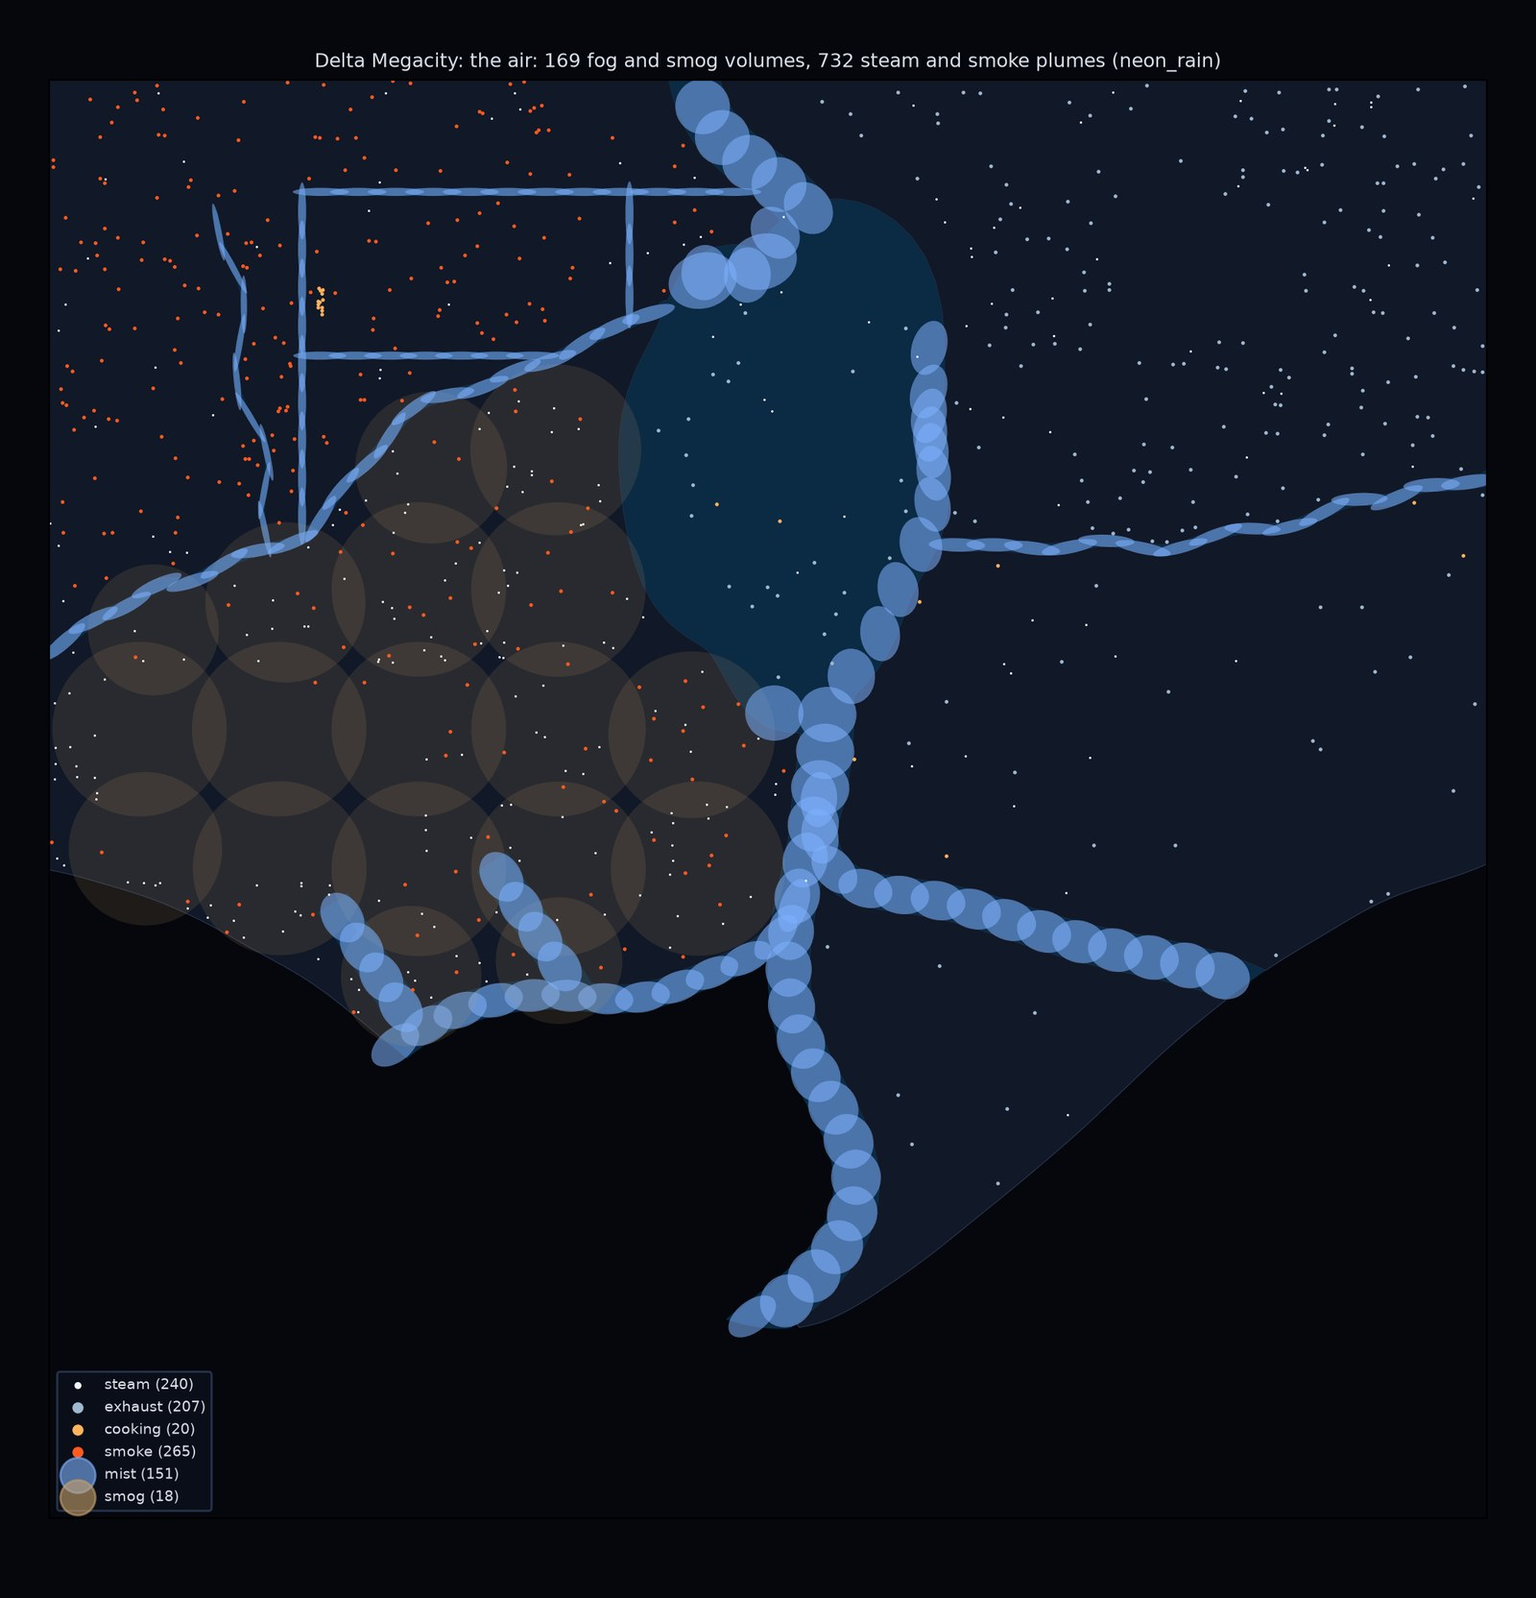
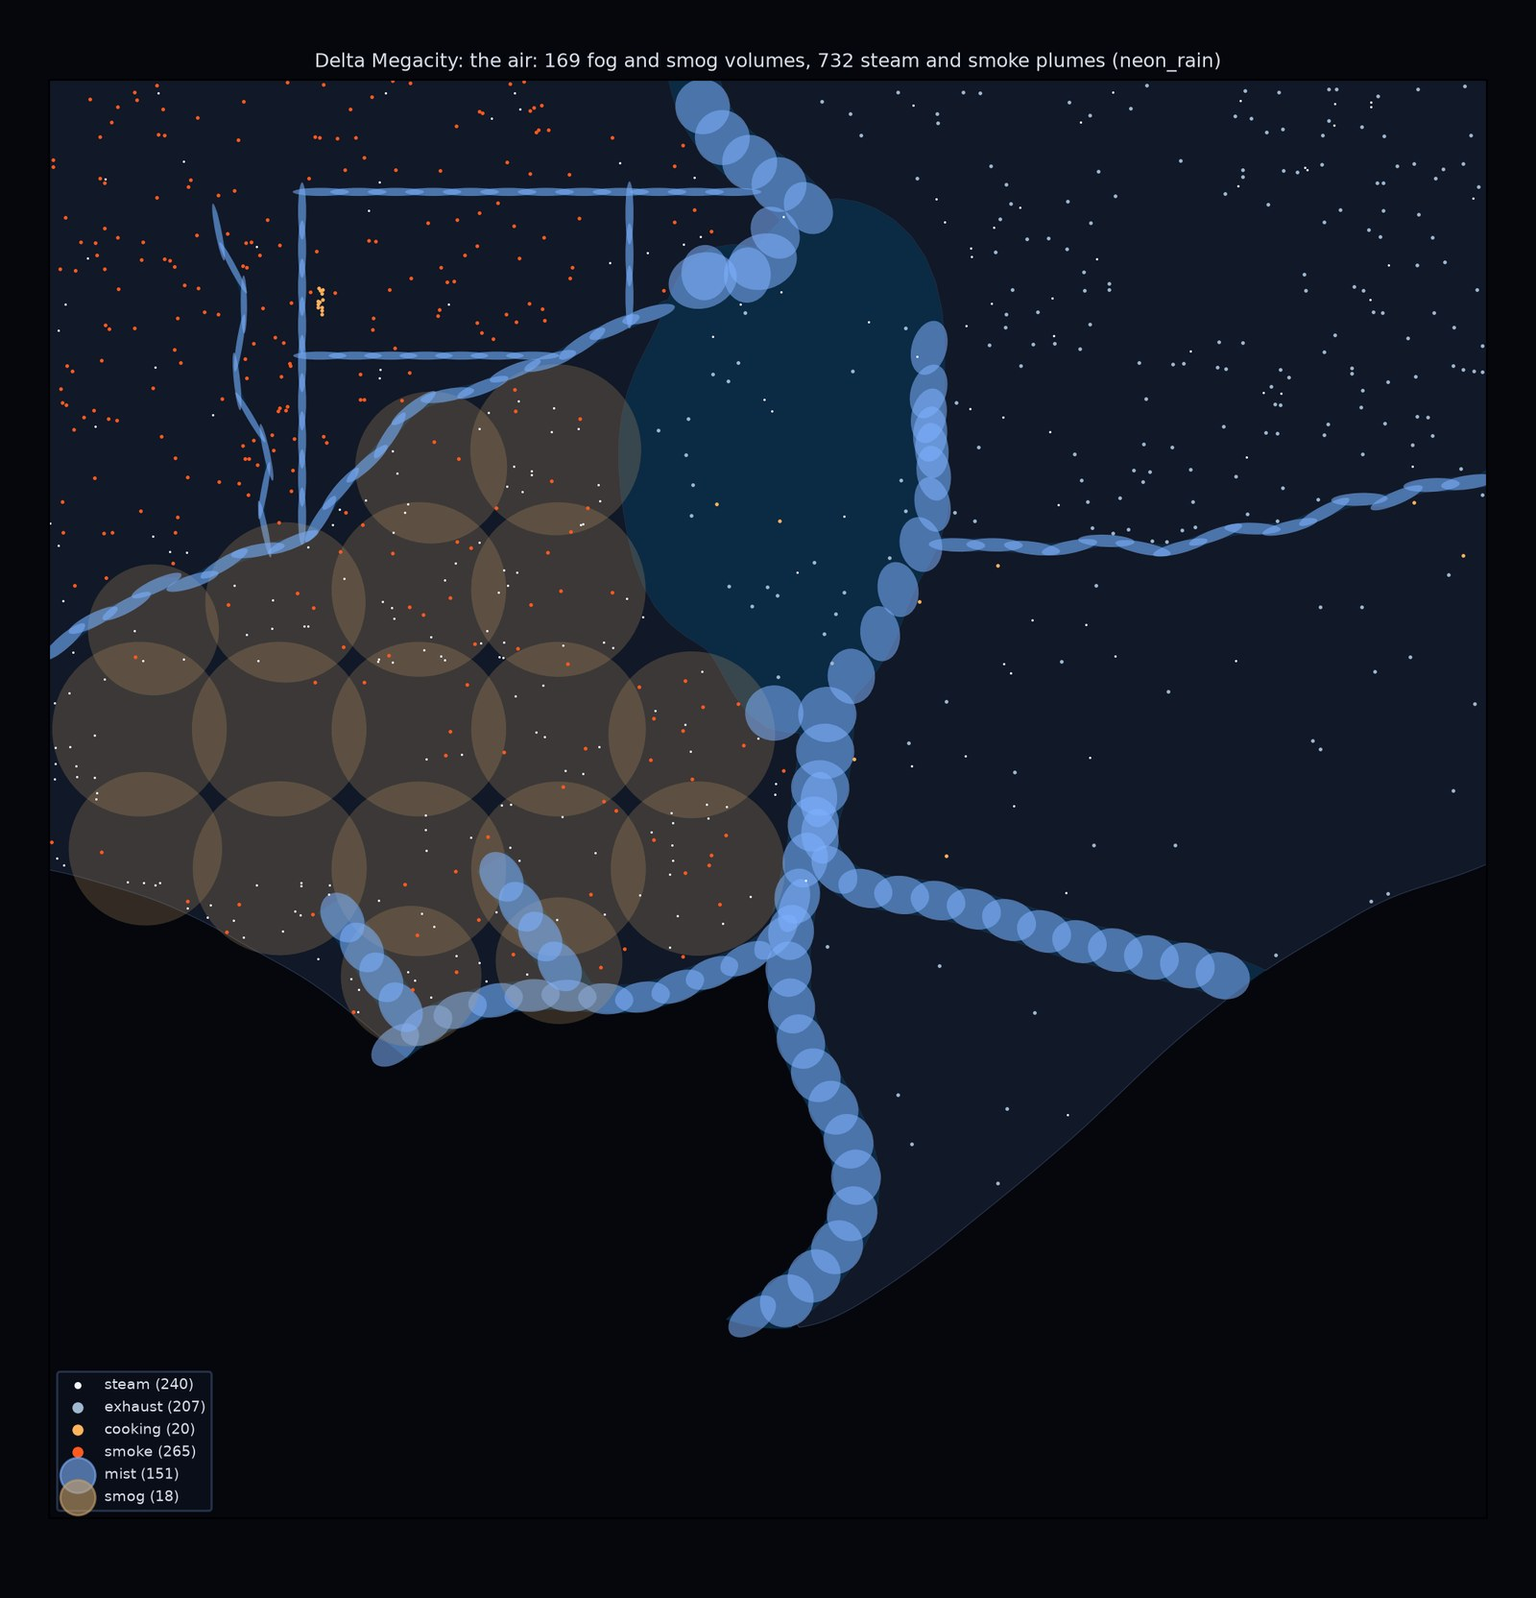
AT4: the deck's haze (Vesper Bay Decks), the report, the milestone log, README, the cars' cost

Changed region(s): [[0.0625, 0.25, 0.5, 0.625]]

diff --git a/docs/progress/AT4/README.md b/docs/progress/AT4/README.md
@@ -1,10 +1,158 @@
 # AT4: air (atmosgen)
 
 Stage 3's fifth milestone (`docs/atmosgen_scope.md` sections 6.3 and 13): height and
-volumetric fog per look, light shafts from strong lights through the haze, fog and smog volumes
-(mist over the canals and rivers at night, smog over industry and the port, haze under the decks
-and in tunnels, all thicker where danger is) and steam and smoke plumes (manholes and drains,
-roof exhausts, food stalls, tunnel vents, chimneys). Built on the Windows PC (RTX 4070 Ti,
-32 GB), 2026-11-12, on main after AT3 (#207) and the parked cars (#209).
+volumetric fog per look, light shafts from the strong lights through the haze, fog and smog
+volumes (mist over the canals and rivers at night, smog over industry and the port, haze under
+the decks and in tunnels, all thicker where danger is) and steam and smoke plumes (manholes and
+drains, roof exhausts, food stalls, tunnel vents, chimneys). Built on the Windows PC (RTX 4070
+Ti, 32 GB), 2026-11-12, on main after AT3 (#207) and the parked cars (#209).
 
-(in progress)
+## What AT4 built
+
+| Part | Where | What |
+|---|---|---|
+| The fog of the look | `presets.AIR_LOOK`, the plan's `air` | the weather's height fog times the look's `density` (neon rain 4.4) and `falloff` (0.4: the haze keeps to the street canyons, the city reads from the air), its volumetric extinction times `extinction` (3), phase g 0.72 (halos round the lamps and signs, shafts along the beams), the volumetric fog to 160 m; by the hour from the sky's Night (`fog_hours`: 1.25 by night, 0.8 by day) |
+| Light shafts | `presets.SCATTER`, the controller's `KindScatter` | each light kind's volumetric scattering: street lights, signals, corner and road poles 1, high masts 2, crown floods 1.5, lit faces 0.35; none from the neon spill, shop signs and shopfronts (AT0: most of the live set); none from searchlights |
+| Searchlights in fog | `presets.BEAM_FOG_GAIN`, `UpdateBeamGlow` | **decision:** AT2's beam meshes stay (a beam reaches 400 m into the sky, the volumetric fog 160 m, where a froxel is metres wide and a 2 degree cone a flicker of blocks); the spot lights scatter none, so there is one beam, brighter by 1 + 0.6 times the fog's share |
+| Fog and smog volumes | `air.Air.mist`, `smog`, `haze`, `tunnel_haze`; `planmodel.FogVolume` | ellipsoids: mist along M16's canals, basins, rivers and channels (pieces 90 m along the water's line, as wide as it there, 7 m over its surface, after dusk: schedule `mist`); smog over the industrial and spaceport districts and their megasites (a 340 m grid, 80 m deep, by day and night: `smog`); haze under M14's decks (a 120 m grid from the ground to the soffit) and in road tunnels and underpasses (pieces along the covered stretch); each times its district's mood haze and 0.7 + 0.6 times its danger (decision 12.5); a `glow` of the city's light by night |
+| Steam and smoke | `air.Air.street`, `vents`, `roofs`, `stalls`, `chimneys`; `planmodel.Emitter` | steam from AG7's manholes and drains, read from the street packs (`air.street_details`: the `manhole` and `grate` decals of the road pieces; a sidewalk piece's grates are tree pits), M9's ventilation buildings; exhaust from M3's roof mechanical units; cooking from M6's food stalls and kiosks; smoke from chimneys on industrial roofs and stove pipes on shanty stacks (`emitters.py`'s fifth ask: the flue); the share that steams by the district's grit (a clean core's manholes now and then, an old town's often) |
+| The air check | `air.Air.check`, the plan's `checks.air` | every plume on its source (a manhole's or stall's middle, a roof unit's or vent's footprint) and out of every building mass and deck slab; every volume over its water, in its district or megasite, under its deck, in its tunnel; at most 24 volumes and 400 plumes a 256 m tile; a plan failing it is not delivered |
+| Preview | `air.air_map`, `atmosgen lux` | `preview_air.png`: the volumes and the plumes over the city |
+| Exporter | `citygen/unreal_atmos.py`, `ue/import_city.py` | packing version 3: a cell's volumes (14 floats) and plumes (9), cells wherever any lie; the controller's air (`air_settings`); `ATMOS_VERSION` atmos4 |
+| Runtime | `ue/CityGenAtmos` | the height fog by the hour; light shafts by kind; the nearest 24 volumes within 900 m as local fog volume components from a pool (radial and height fog, phase g, albedo, a glow by night); per cell an instanced component of plume cards in `M_CgSteam` (`atmos_assets.py` version 12: turned to the eye, rising, slowing, widening and drifting by world position offset, soft and lit by the translucency volume), culled past 220 m; the plan's engine settings while it runs (`TunedSettings`); console `.Air`, `.Tuned`, `.VolumeGain`, `.VolumeGlow`, `.SteamGain`, `.FogSet`, `.FogView`, `.PlumeDebug` |
+| The parked cars | `ue/import_city.py` (`VEHICLE_CULL_M`) | the cars' parts drawn only as near as they show (bodies 450 m, glass 250, wheels 120), the wheels without shadows |
+| Benchmark | `citygen/bench.py`, `citygen/cli.py` | passes `night_plan_air`, `dusk_plan_air`, `day_plan_air`, `night_plan_proto` (AT3's `night_plan_all`), the exploring `x_*`; the lean route (`--bench-route lean`, the default for atmos benchmarks: one walk, the drive, the flight, a short warm-up, one run) |
+| Check | `ue/check_city.py` | the controller's air by night; `*_noair` views (the same view without the fog and the air); `$CITYGEN_UE_ATMOS_CMDS` (console commands for a round of art direction) |
+
+**Effects from code, settled:** AT0 found no API to author Niagara from code. AT4 builds the air
+without it: the fog volumes are the engine's local fog volume components (made and pooled by
+the controller) and the plumes instanced cards in a code-made material.
+
+## The plan on Delta
+
+`atmosgen plan` on AG16's Delta build (`neon_rain`): the lux and faces checks as in AT3, and the
+air check passes. 169 volumes (151 pieces of mist on 12 bodies of water: the Great River, the
+delta branches, the separation channels, Old Town's canals and the port's basins; 18 puffs of
+smog over the Industrial Port), at most 7 in a tile; 732 plumes (156 of the 1,021 manholes and
+84 of the 2,437 drains AG7 drew, 207 roof units, 20 stalls, 76 chimneys, 189 stove pipes), at
+most 24 in a tile. Delta has no deck and no road tunnel: Vesper Bay Decks shows the haze under a
+deck (below).
+
+![Delta's air: mist along the water, smog over the port, the plumes](wip/01_plan/delta_megacity_preview_air.jpg)
+
+## Unreal
+
+Delta imported over its AT3 import in CityAG16 (`citygen unreal ... --atmos DIR --no-hlod`,
+`CITYGEN_UE_OFFLOAD=500`): the plugins built, atmosgen's assets made again (`M_CgSteam`), the
+controller and 522 cells re-packed (9 new: cells of volumes or plumes alone), the 57 parked
+car placements re-placed (their cull distances), nothing else touched, under 4 minutes. The
+check passes: streaming, collision, the walk, the play features, the sky by night, dusk and
+day, and the air (the fog on, 54 volumes registered and 24 live round the player, 126 plumes in
+586 cards, the four engine settings applied).
+
+| A Corporate Core street by night, with the air | The same street without it |
+|---|---|
+| ![](unreal/night_street_fog.jpg) | ![](unreal/night_street_fog_noair.jpg) |
+| **Old Town: the haze takes the neon** | **Without it** |
+| ![](unreal/night_oldtown_fog.jpg) | ![](unreal/night_oldtown_fog_noair.jpg) |
+| **Mist on an Old Town canal** | **Without it** |
+| ![](unreal/night_canal_mist.jpg) | ![](unreal/night_canal_mist_noair.jpg) |
+| **Mist on the Great River under a bridge** | **Steam from a Midtown manhole** |
+| ![](unreal/night_river_mist.jpg) | ![](unreal/night_steam_midtown.jpg) |
+| **The Industrial Port from 120 m: smog and basin mist** | **Without it** |
+| ![](unreal/night_port_smog.jpg) | ![](unreal/night_port_smog_noair.jpg) |
+| **A port street in its sodium haze** | **The megatower's searchlights in fog** |
+| ![](unreal/night_port_street.jpg) | ![](unreal/night_searchlights_fog.jpg) |
+| **Vesper Bay Decks: haze under the deck** | **Without it** |
+| ![](unreal/night_deck_haze.jpg) | ![](unreal/night_deck_haze_noair.jpg) |
+| **Dusk** | **Day (16:00): the overcast's haze** |
+| ![](unreal/dusk_street_fog.jpg) | ![](unreal/pday_street_fog.jpg) |
+
+What they show:
+
+- **The haze** takes every lamp and sign into a halo and fades the street 200 m off; the clean
+  Corporate Core reads crisp near and soft far, Old Town's neon blooms into the air. From the
+  air the falloff keeps it to the canyons: the city's lights read to the horizon.
+- **Mist** lies on the water after dusk (thickest before dawn), glowing faintly with the city's
+  light; **smog** is a brown layer over the port.
+- **Steam** rises from the manholes in wisps, lit by the street (the plumes are rising cards:
+  near the view they read best against a lit background, see the open items).
+- **Searchlights:** the beams as before, a little brighter in the fog; their spot lights add
+  no second beam.
+
+**Rounds of art direction** (`wip/02_first_import`, `wip/03_tuning`; console commands per
+round through `$CITYGEN_UE_ATMOS_CMDS`): the first import's fog (the weather's 0.018, AT0's)
+did not read at street scale and the plumes and volumes did not show at all; the local fog
+volumes' tile debug view and the plumes at a gain of 20 proved both drew, too faint; the fog
+went 4.4 times denser with 3 times the volumetric extinction, the falloff to 0.4, the volumes 3
+times denser with a glow of the city's light by night, the plumes' opacity gain 10.
+
+## The night's frame time
+
+Delta, native 2560 x 1440, the PC alone. **Before** is AT3's after (`docs/progress/AT3/bench/
+after`) and this milestone's own before (`bench/before`: three runs on main's code, CityAG16 as
+AT3 and the parked cars left it). **After** (`bench/after`) is **one run** (Swagnik,
+2026-11-12: the benchmarks were too slow; the run held the game's foreground 99% of the time,
+the other processes 1.1 cores, not starved); it was started before the lean route and ran the
+full route with every pass.
+
+| Pass | AT3 after | before (AT3 + cars) | after (AT4) | walk: AT3 / before / after |
+|---|---|---|---|---|
+| `night_native` | 11.2 | 13.1 | **11.6** | 10.8 / 13.3 / **11.3** |
+| `night_plan` | 14.4 | 15.3 | **14.5** | 14.6 / 15.5 / **14.8** |
+| `night_plan_air` (AT4's night) | - | - | **15.0** | - / - / **15.2** |
+| `night_plan_all` (with AT0's rain and wet streets) | 16.4 | 17.1 | **15.6** | 16.8 / 17.4 / **15.8** |
+| `night_plan_proto` (AT3's `night_plan_all`: no air, untuned) | - | - | 16.9 | - / - / 17.4 |
+| `dusk_plan` | 14.3 | 14.9 | **14.4** | 14.5 / 15.1 / **14.6** |
+| `dusk_plan_air` | - | - | **14.9** | - / - / **15.0** |
+| `day_plan` | 11.1 | 11.7 | **11.2** | 10.7 / 11.2 / **10.7** |
+| `day_plan_air` | - | - | **11.8** | - / - / **10.9** |
+
+(ms, p95 of the moving frames over the route.) **AT4's night is 15.0 ms p95 over the route,
+15.2 walking**; with AT0's rain and wet streets 15.6 and 15.8: 0.9 ms under decision 12.6's
+16.7 ms, where AT3 was 0.1 over and the parked cars had taken it to 17.4 walking.
+
+- **What the parked cars cost:** the night without atmosgen 11.2 to 13.1 ms (walking 10.8 to
+  13.3), every pass 0.6 to 0.9 ms more, nearly all on the render thread: 3,431 cars in 4,354
+  instanced components, the draw calls walking 860 to 1,843 (the render thread's p95 10.4 to 12.7
+  ms, the GPU's 9.3 to 9.8). Their parts' cull distances (bodies 450 m, glass 250, wheels 120)
+  took the draws back to 1,197 and the night without atmosgen to 11.6 ms (walking 11.3); a
+  global LOD distance scale (`r.StaticMeshLODDistanceScale 2`) gave nothing.
+- **The room the air needed** (`bench/explore`, one run, every pass with the air, rain and wet
+  streets, each setting by hand): the volumetric fog's froxels 12 px a side and 96 slices deep
+  (its pass 0.92 to 0.30 ms, the frame 0.6 ms), Lumen's reflections at half resolution (2.80 to
+  1.60 ms walking: the wet streets' glossy ground; the frame 0.9 ms), both 1.5 ms; froxels of 16
+  px gave 0.1 ms more and blocked the halos. They are the plan's `cvars`, applied by the
+  controller while it runs (`TunedSettings`; the project's own put back at its end).
+- **What the air costs:** `night_plan_air` against `night_plan` 0.5 ms over the route (the fog,
+  24 local fog volumes, the plumes; the volumetric fog below the profile's top passes at its
+  coarser grid); by day 0.6 ms. The four tuned settings make AT0's rain and wet streets 1.3 ms
+  cheaper than in AT3 (`night_plan_proto` against `night_plan_all`).
+- **A first after run that did not tune:** the controller's property was `RenderCVars`, which
+  Unreal's Python names `render_c_vars`; the import set nothing and the settings were never
+  applied (`night_plan_all` 16.9 ms). It is `TunedSettings` now, and the check's status says how
+  many settings it applied (`cvars`).
+
+## Validation
+
+- `tests/atmosgen` (with the new `test_at_air.py`: volumes over the water, industry, decks and
+  tunnels, plumes from their sources, the street packs' reader, only road pieces steaming, the
+  air check, the settings, the plan's record), `tests/test_unreal_atmos.py` (cells with volumes
+  and plumes, the controller's air), `tests/test_bench.py` (the air passes, the lean route),
+  `tests/test_unreal_play.py`, the cook test of `tests/test_unreal.py`: 71 passed.
+- The plan on Delta and Vesper Bay Decks: every check passes.
+- Delta imported and checked in Unreal (CityAG16), the air's views by night, dusk and day;
+  Vesper Bay Decks imported (its blockout) for the deck's haze; the benchmark after (one run).
+
+## Open items
+
+- **The plumes are faint from afar and against the dark:** rising cards lit by the translucency
+  volume read near lit streets; a food stall's cooking (3 cards) hardly shows. A self-lit share
+  by night or more cards per plume is AT6's art direction.
+- **Vesper Bay Decks' deck haze is shot on its blockout** (a stage 2 import of a second city
+  was hours); the haze is the same runtime.
+- **Smog over the port** reads as a brown layer from the air; at street level it is the
+  height fog's sodium haze. Its density and glow are art direction.
+- **Fixtures asked of stage 2:** chimneys and stove pipes (the fifth ask) under the smoke.
+- **Wet streets** remain AT0's decal (AT5); the tuned Lumen reflections are what make them
+  affordable now.

diff --git a/docs/atmosgen_milestones.md b/docs/atmosgen_milestones.md
@@ -62,6 +62,43 @@ recommendations: [`docs/progress/AT0/README.md`](progress/AT0/README.md).
   `busy`), `tests/test_unreal_play.py` (both plugins installed), `tests/test_no_network.py`
   (atmosgen too).
 
+## AT4: air
+
+Built on the Windows PC (2026-11-12), on main after AT3 (#207) and the parked cars (#209). Report,
+measurements and images: [`docs/progress/AT4/README.md`](progress/AT4/README.md).
+
+- **The fog of the look** (`presets.AIR_LOOK`, the plan's `air`): the weather's height fog times
+  the look's density (neon rain 4.4) and falloff (0.4: the haze keeps to the street canyons),
+  the volumetric extinction times 3, phase g 0.72, volumetric to 160 m; 1.25 by night, 0.8 by
+  day (`fog_hours` from the sky's Night).
+- **Light shafts** (`presets.SCATTER`): each light kind's volumetric scattering; none from the
+  neon spill, shop signs and shopfronts, none from searchlights. **Decision:** AT2's beam
+  meshes stay (400 m into the sky against the volumetric fog's 160 m), brighter in fog
+  (`BEAM_FOG_GAIN`).
+- **Volumes** (`atmosgen/air.py`, `planmodel.FogVolume`): mist along the canals, basins, rivers
+  and channels after dusk, smog over industrial and spaceport districts and their megasites,
+  haze under decks and in road tunnels and underpasses; times the district's haze and danger;
+  a glow of the city's light. Delta: 169.
+- **Emitters** (`planmodel.Emitter`): steam from AG7's manholes and drains read from the street
+  packs (road pieces only), M9's vents; exhaust from M3's roof units; cooking from M6's stalls
+  and kiosks; smoke from chimneys and stove pipes (the fifth emitter ask); the share by grit.
+  Delta: 732.
+- **The air check** (`checks.air`): plumes on their sources and out of the masses, volumes over
+  their water, district, deck or tunnel, budgets per tile; a plan failing it is not delivered.
+- **Exporter and runtime** (`docs/unreal_export.md`, "From AT4"): packing version 3,
+  `ATMOS_VERSION` atmos4, the controller's air; pooled local fog volumes (24 nearest), plume
+  cards (`M_CgSteam`, atmos assets 12), the engine settings the budget needs (`TunedSettings`:
+  volumetric fog froxels 12 px and 96 slices, Lumen reflections at half resolution, the local
+  fog volumes' density cap 0.05); the parked cars' cull distances by part.
+- **Effects from code**, settled: local fog volume components and instanced cards, no Niagara.
+- **Benchmark** (one run after; Swagnik, 2026-11-12: the lean route, one run, the previous
+  "after" as the before): Delta's night 15.0 ms p95 over the route (15.2 walking), with AT0's
+  rain and wet streets 15.6 (15.8), dusk 14.9, day 11.8; the parked cars had cost 0.6 to 1.9 ms
+  (draw calls on the render thread), their cull distances gave it back; the tuned settings 1.5
+  ms. The lean route (`--bench-route lean`) is the default for atmos benchmarks.
+- **Tests:** `tests/atmosgen/test_at_air.py`; `tests/test_unreal_atmos.py`,
+  `tests/test_bench.py` (the air passes, the lean route).
+
 ## AT3: sky and time
 
 Built on the Windows PC (2026-11-12), on main after AT2 (#203). Report, measurements and images:

diff --git a/README.md b/README.md
@@ -593,6 +593,14 @@ the developer menu (Tab) has a time-of-day slider:
 | The moon over the bay, the deck opened | The Corporate Core by day |
 | <img src="docs/progress/AT3/unreal/night_moon_east_clear.jpg" width="420"> | <img src="docs/progress/AT3/unreal/pday_core_skyline.jpg" width="420"> |
 
+The air: a haze by the hour that takes every lamp and sign into a halo, mist on the canals and
+rivers after dusk, smog over the port, haze under the decks and in tunnels, and steam and smoke
+rising from manholes, roofs, stalls and chimneys:
+
+| Old Town's neon in the haze | Mist on a canal at night |
+|---|---|
+| <img src="docs/progress/AT4/unreal/night_oldtown_fog.jpg" width="420"> | <img src="docs/progress/AT4/unreal/night_canal_mist.jpg" width="420"> |
+
 Its Blender preview renders the same night in Cycles, lit by the plan's lights (and dusk, at an
 hour the sun has just set: `atmosgen preview out/vesper_bay --hour 19.4`):
 

diff --git a/docs/progress/AG18/delta_at3/README.md b/docs/progress/AG18/delta_at3/README.md
@@ -56,7 +56,12 @@ Every other car passes (2,970 of 2,970 side traces on the Tanager Cab, for one).
 
 ## The night's frame time with the cars
 
-BENCH_RESULT
+Measured in AT4 (`docs/progress/AT4/bench/before`, three runs, against AT3's after): every
+night pass 0.6 to 0.9 ms p95 slower, the night without atmosgen 11.2 to 13.1 ms (walking 10.8 to
+13.3), nearly all of it on the render thread (the draw calls walking 860 to 1,843: 4,354
+instanced components). AT4 gave the cars' parts cull distances (bodies 450 m, glass 250, wheels
+120; the wheels cast no shadow): the draws walking 1,197, the night without atmosgen 11.6 ms
+(`docs/progress/AT4/README.md`).
 
 ## Open items
 
